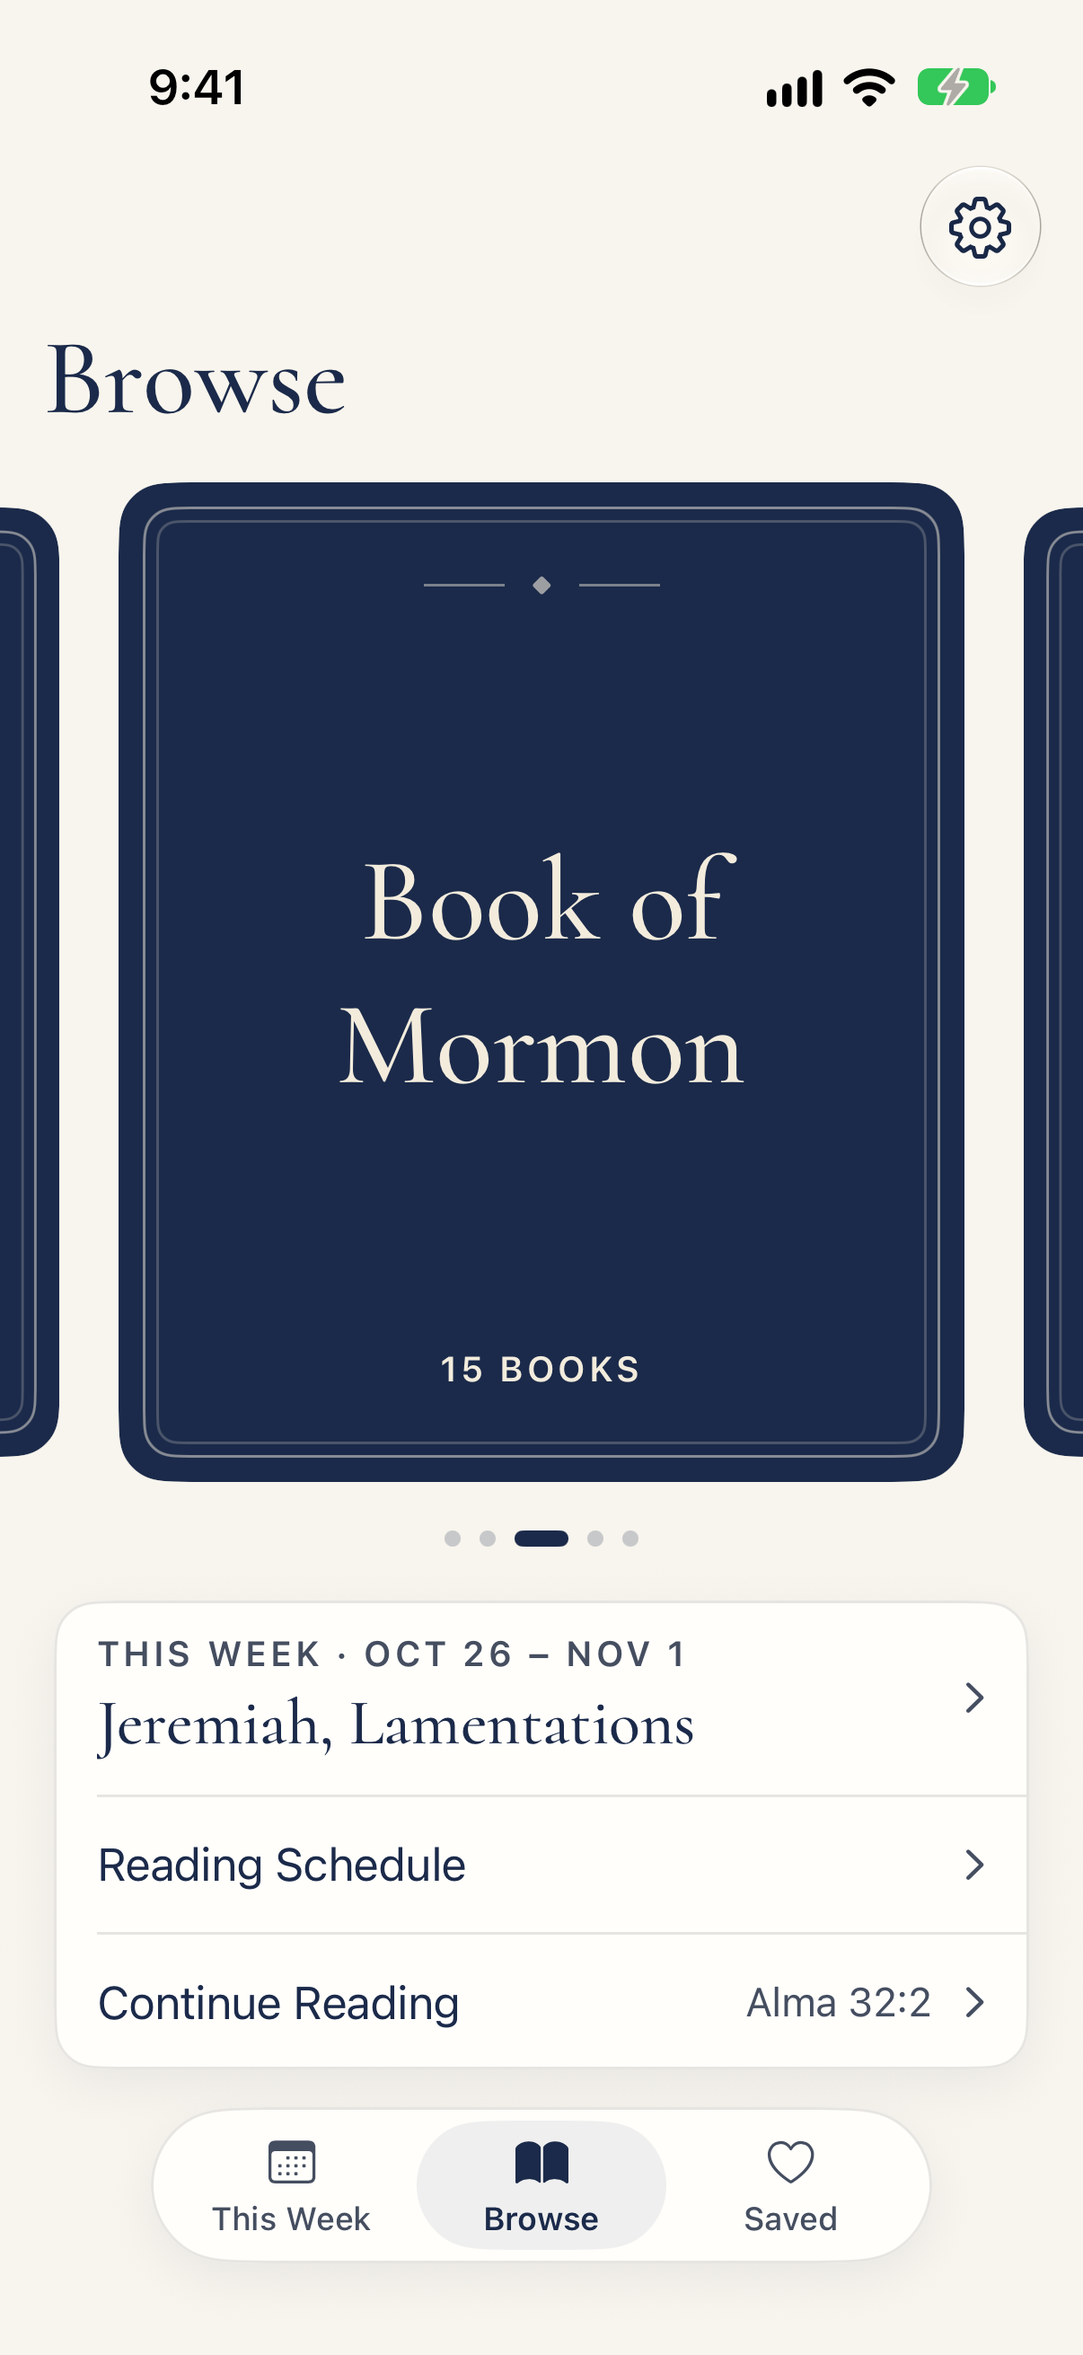
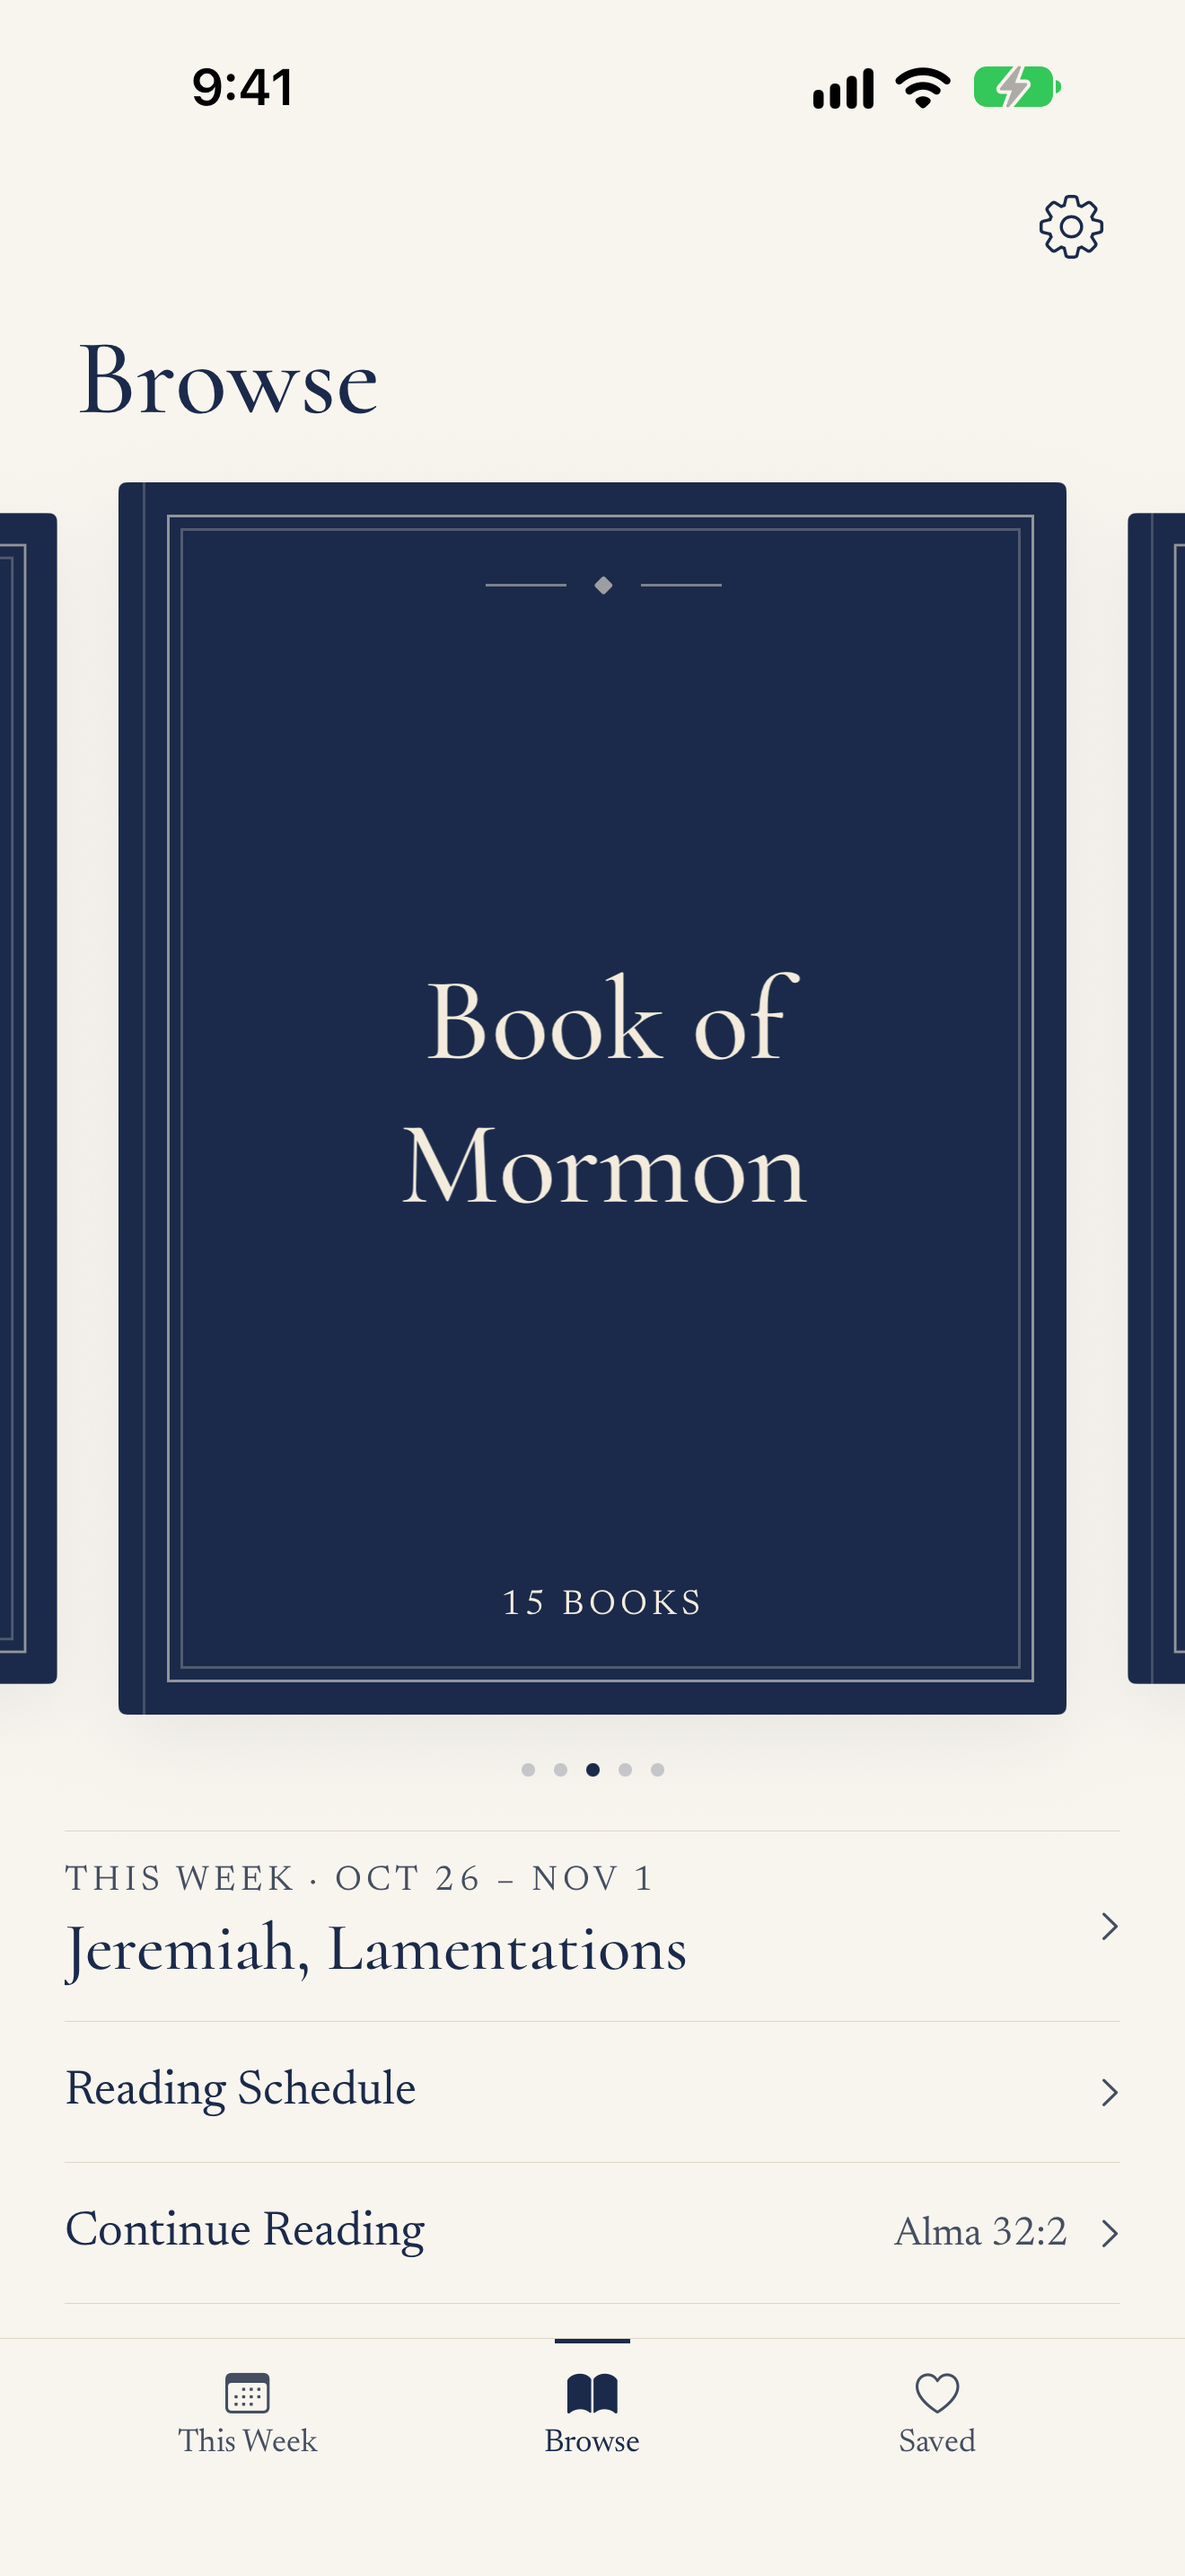
Retake the App Store and README screenshots in the new look

diff --git a/docs/NEXT.md b/docs/NEXT.md
@@ -1,6 +1,6 @@
 # Where we left off
 
-Updated Nov 3, 2026.
+Updated Nov 5, 2026.
 
 ## App Store (steps 20–21)
 
@@ -8,18 +8,15 @@ Updated Nov 3, 2026.
 - **Waiting:** Content Rights stays blank until BYU's Copyright Office answers about the 2013 edition fixes in the scripture text. Apple only needs this when submitting for review.
 - **Next:** Step 21. Upload a build to TestFlight and test it on Peyton's iPhone. Run the full test suite before uploading.
 
-## UI redesign "Quiet" (done Nov 3)
+## Design reset (done Nov 5)
 
-Simple and classy, but modern. Mocks: https://claude.ai/artifact/AgFoBWJQgBvXQicM4zfzM5 (page "Simple + Modern"). The details are in the Design section of `CLAUDE.md`.
-
-- **New look on every screen:** bundled book-style fonts, even numbers, soft raised cards, a small floating tab bar.
-- **Small changes:** a Start Reading button (Continue Reading when partway through), the date on the This Week card, a plain-text streak, and Settings moved to the gear on Browse.
-- **The App Store and README screenshots are retaken** in the new look.
+After criticism on X, every screen was reset to one typeset-book look. The details are in the Design section of `CLAUDE.md`, and the audit tools in its Design audit section. App Store and README screenshots are retaken.
 
 ## Still open
 
 - **Occasional test failure:** `testReadingSavingBrowsingAndResuming` failed once, then passed on every other run. Its reason wasn't saved. Watch for it in the full test run before TestFlight.
-- **Not yet seen on a real iPhone:** check the faint shadows and fonts on Peyton's phone during TestFlight (step 21).
+- **Not yet seen on a real iPhone:** check the thin lines, fonts, and page motion on Peyton's phone during TestFlight (step 21).
+- **Not yet tested:** iOS 17 and 18 (only the iOS 27 simulator is installed), dark-mode transitions, and whether the plain back button still swipes back on those versions.
 
 ## Good to know
 
